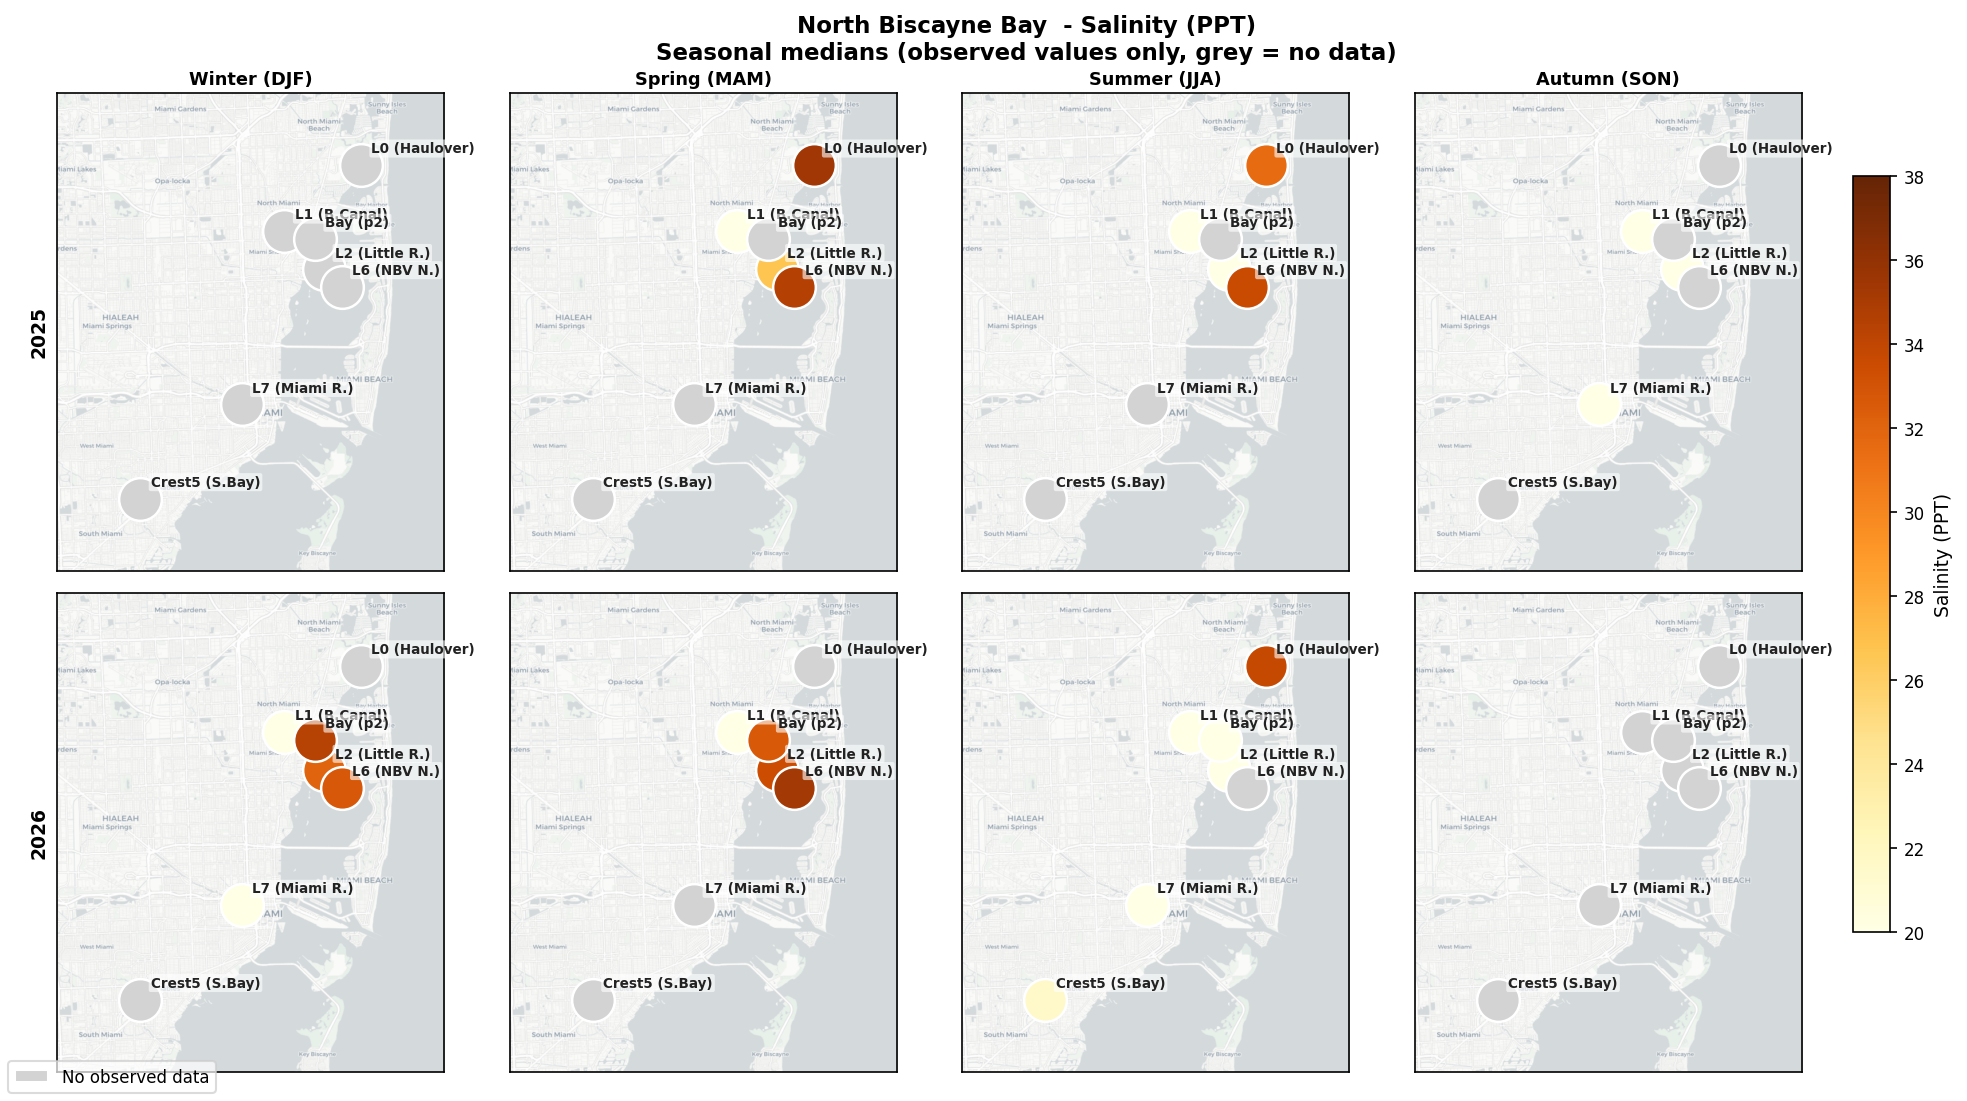
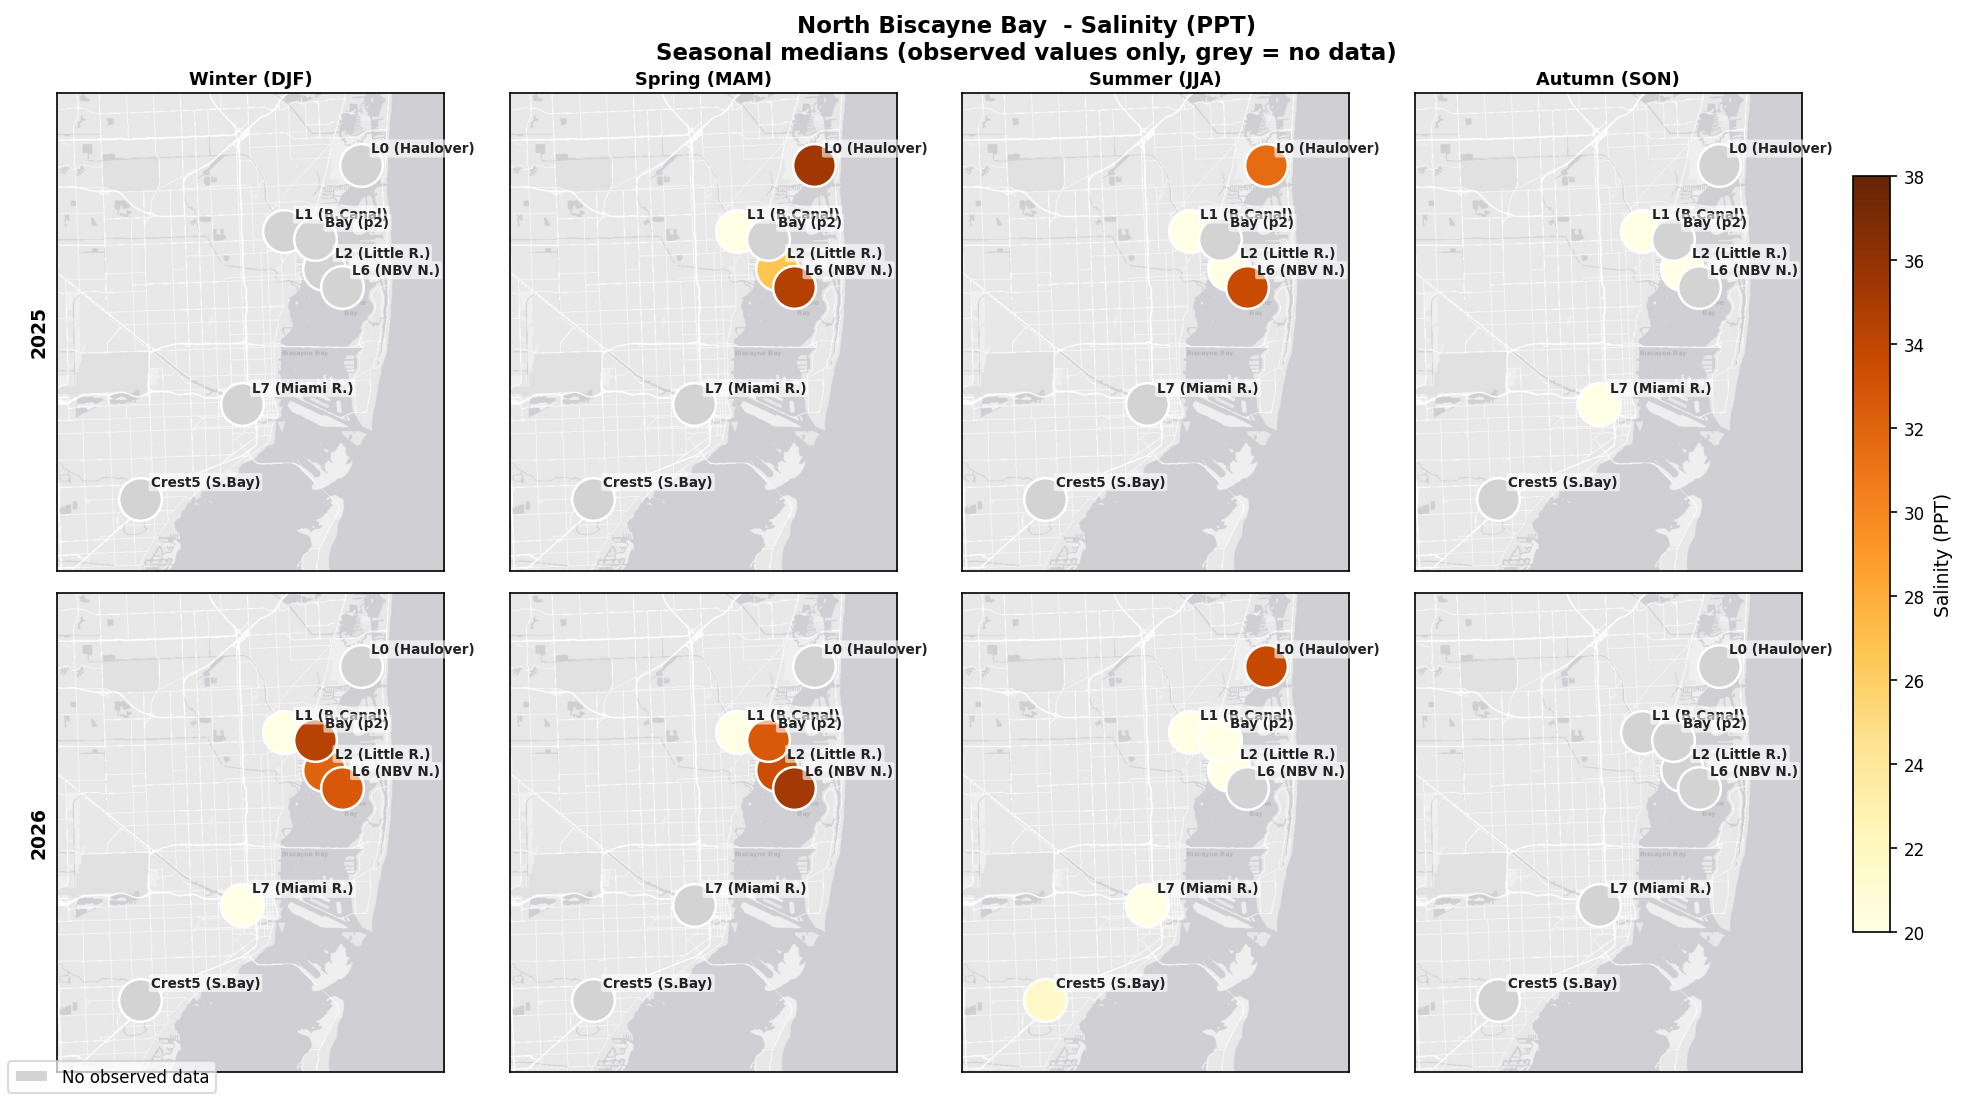
bug fixes and updates to visuals

Changed region(s): [[0.7443, 0.1544, 0.7753, 0.1853], [0.2791, 0.1544, 0.3101, 0.1853], [0.031, 0.5867, 0.062, 0.6176]]

diff --git a/train.py b/train.py
@@ -33,7 +33,7 @@ import torch.nn as nn
 from pathlib import Path
 from torch.utils.data import Dataset, DataLoader
 
-from preprocess import build_dataset
+from preprocess import build_dataset, clip_to_physical_bounds
 from model import BayImputationGNN, Normaliser
 
 
@@ -60,7 +60,7 @@ CKPT_DIR.mkdir(exist_ok=True)
 
 class WindowDataset(Dataset):
     """
-    Yields (x_win, mask_win, forcing_win, ts_win) windows.
+    Yields (x_win, input_mask_win, target_mask_win, forcing_win, ts_win) windows.
     x_win      : (WIN_LEN, N, F)  normalised
     mask_win   : (WIN_LEN, N, F)  1=present, 0=missing
     forcing_win: (WIN_LEN, 3)     [rain, temp_min, temp_max]
@@ -95,6 +95,7 @@ class WindowDataset(Dataset):
         return (
             torch.tensor(x,                  dtype=torch.float32),
             torch.tensor(msk,                dtype=torch.float32),
+            torch.tensor(self.true_mask[s:e], dtype=torch.float32),
             torch.tensor(self.forcing[s:e],  dtype=torch.float32),
             torch.tensor(self.ts[s:e],       dtype=torch.float64),
         )
@@ -166,14 +167,15 @@ def train():
         model.train()
         train_loss = 0.0
 
-        for x_b, msk_b, forcing_b, ts_b in train_loader:
+        for x_b, msk_b, target_msk_b, forcing_b, ts_b in train_loader:
             x_b       = x_b.to(DEVICE)        # (B, W, N, F)
             msk_b     = msk_b.to(DEVICE)
+            target_msk_b = target_msk_b.to(DEVICE)
             forcing_b = forcing_b.to(DEVICE)  # (B, W, 3)
             ts_b      = ts_b.float().to(DEVICE)
 
             _, pred, _ = model(x_b, msk_b, forcing_b, ei, ew, ts_b)
-            loss = criterion(pred * msk_b, x_b * msk_b)
+            loss = criterion(pred[target_msk_b.bool()], x_b[target_msk_b.bool()])
 
             optimiser.zero_grad()
             loss.backward()
@@ -188,11 +190,12 @@ def train():
         model.eval()
         val_loss = 0.0
         with torch.no_grad():
-            for x_b, msk_b, forcing_b, ts_b in val_loader:
+            for x_b, msk_b, target_msk_b, forcing_b, ts_b in val_loader:
                 x_b = x_b.to(DEVICE); msk_b = msk_b.to(DEVICE)
+                target_msk_b = target_msk_b.to(DEVICE)
                 forcing_b = forcing_b.to(DEVICE); ts_b = ts_b.float().to(DEVICE)
                 _, pred, _ = model(x_b, msk_b, forcing_b, ei, ew, ts_b)
-                val_loss += criterion(pred * msk_b, x_b * msk_b).item()
+                val_loss += criterion(pred[target_msk_b.bool()], x_b[target_msk_b.bool()]).item()
         val_loss /= max(len(val_loader), 1)
 
         flag = ""
@@ -267,6 +270,9 @@ def impute(checkpoint: str):
 
     X_imputed_avg = X_imputed_sum / np.maximum(X_imputed_count[:, None, None], 1)
     X_imputed_denorm = norm.inverse_transform(X_imputed_avg.astype(np.float32))
+    X_imputed_denorm = clip_to_physical_bounds(
+        X_imputed_denorm, data["feature_names"]
+    )
 
     # Build output: use real observations where available, model fill for gaps
     X_out = np.where(true_mask.astype(bool), X_raw, X_imputed_denorm)

diff --git a/data_quality_check.py b/data_quality_check.py
@@ -1,0 +1,77 @@
+"""Audit imputed CSV outputs for physical ranges and observation coverage.
+
+Run:
+    python data_quality_check.py
+
+The audit is intentionally read-only. It reports violations in the files as
+currently written and writes analysis/data_quality_audit.csv.
+"""
+
+from pathlib import Path
+
+import numpy as np
+import pandas as pd
+
+from preprocess import PHYSICAL_BOUNDS
+
+
+IMPUTED_DIR = Path("imputed_output")
+OUTPUT_PATH = Path("analysis/data_quality_audit.csv")
+
+
+def audit_file(path: Path) -> list[dict]:
+    frame = pd.read_csv(path)
+    rows = []
+    for feature, (lower, upper) in PHYSICAL_BOUNDS.items():
+        if feature not in frame.columns:
+            continue
+        values = pd.to_numeric(frame[feature], errors="coerce")
+        finite = values.dropna()
+        observed_col = f"{feature}_observed"
+        observed = frame[observed_col].astype(bool) if observed_col in frame else pd.Series(
+            True, index=frame.index
+        )
+        invalid = values.notna() & ((values < lower) | (values > upper))
+        imputed_invalid = invalid & ~observed
+        rows.append(
+            {
+                "file": path.name,
+                "feature": feature,
+                "lower_bound": lower,
+                "upper_bound": upper,
+                "n_values": int(finite.size),
+                "n_observed": int(observed[values.notna()].sum()),
+                "n_imputed": int((~observed & values.notna()).sum()),
+                "n_invalid": int(invalid.sum()),
+                "n_invalid_imputed": int(imputed_invalid.sum()),
+                "min": float(finite.min()) if not finite.empty else np.nan,
+                "max": float(finite.max()) if not finite.empty else np.nan,
+            }
+        )
+    return rows
+
+
+def main() -> int:
+    paths = sorted(IMPUTED_DIR.glob("*_imputed.csv"))
+    if not paths:
+        raise FileNotFoundError(f"No imputed CSV files found in {IMPUTED_DIR}")
+
+    rows = [row for path in paths for row in audit_file(path)]
+    report = pd.DataFrame(rows)
+    OUTPUT_PATH.parent.mkdir(exist_ok=True)
+    report.to_csv(OUTPUT_PATH, index=False, float_format="%.6g")
+
+    invalid_total = int(report["n_invalid"].sum())
+    invalid_imputed_total = int(report["n_invalid_imputed"].sum())
+    print(f"Audited {len(paths)} files and {len(report)} feature/file pairs")
+    print(f"Invalid values: {invalid_total} total, {invalid_imputed_total} imputed")
+    print(f"Saved: {OUTPUT_PATH}")
+    if invalid_total:
+        print(report.loc[report["n_invalid"] > 0, [
+            "file", "feature", "n_invalid", "n_invalid_imputed", "min", "max"
+        ]].to_string(index=False))
+    return 1 if invalid_imputed_total else 0
+
+
+if __name__ == "__main__":
+    raise SystemExit(main())

diff --git a/fcm_validate.py b/fcm_validate.py
@@ -148,10 +148,10 @@ def one_step_hindcast(
     obs_mask: np.ndarray,
 ) -> tuple[np.ndarray, np.ndarray, np.ndarray]:
     """
-    Predicted[t] = sigmoid(W^T @ filled_A[t])  where A[t] is the
-    observation at t with NaN replaced by column means (so the FCM
-    can still run), but we only EVALUATE the prediction at t+1
-    positions where the data was genuinely observed.
+    Predicted[t] = clip(filled_A[t] @ W, 0, 1), matching the bounded
+    linear Ridge mapping used to learn W. A[t] has NaN replaced by
+    column means so the FCM can still run, but we only EVALUATE the
+    prediction at t+1 positions where the data was genuinely observed.
 
     Returns:
       pred       - (T-1, 16)  FCM one-step predictions
@@ -168,13 +168,10 @@ def one_step_hindcast(
     pred = np.full((T - 1, N_NUTR), np.nan)
     obs  = arr_norm[1:].copy()   # NaN preserved where genuinely missing
 
-    def _sig(x):
-        return 1.0 / (1.0 + np.exp(-np.clip(x, -50, 50)))
-
     for t in range(T - 1):
         A_t = arr_norm[t].copy()
         A_t[np.isnan(A_t)] = col_means[np.isnan(A_t)]   # fill NaN for input
-        A_pred = _sig(W.T @ A_t)
+        A_pred = np.clip(A_t @ W, 0.0, 1.0)
         A_pred[:N_FORCING] = arr_norm[t + 1, :N_FORCING]  # forcing clamped
         pred[t] = A_pred
 
@@ -191,7 +188,7 @@ def compute_metrics(
 ) -> pd.DataFrame:
     """
     Per-concept R², RMSE, MAE using only genuinely observed evaluation pairs.
-    R² is clipped to [-2, 1] so a few bad predictions don't blow up the table.
+    R² is stored without clipping so poor predictive skill remains visible.
     """
     rows = []
     for i in ENDO_IDXS:
@@ -210,7 +207,7 @@ def compute_metrics(
         if ss_tot < 1e-10:
             r2 = np.nan
         else:
-            r2 = float(np.clip(1 - ss_res / ss_tot, -2.0, 1.0))
+            r2 = float(1 - ss_res / ss_tot)
         rmse = float(np.sqrt(np.mean((om - pm) ** 2)))
         mae  = float(np.mean(np.abs(om - pm)))
         rows.append({"concept": LABELS[i], "R2": r2,

diff --git a/analyze.py b/analyze.py
@@ -99,11 +99,12 @@ def _compute_loss(model, val_ds, ei, ew, extra_mask_channels=None,
     ew_use = ew_override if ew_override is not None else ew
 
     with torch.no_grad():
-        for x_b, msk_b, forcing_b, ts_b in loader:
+        for x_b, msk_b, target_msk_b, forcing_b, ts_b in loader:
             if count >= MAX_WINDOWS:
                 break
             x_b   = x_b.to(DEVICE)
             msk_b = msk_b.to(DEVICE)
+            target_msk_b = target_msk_b.to(DEVICE)
             if extra_mask_channels:
                 msk_b = msk_b.clone()
                 x_b   = x_b.clone()
@@ -113,7 +114,7 @@ def _compute_loss(model, val_ds, ei, ew, extra_mask_channels=None,
             forcing_b = forcing_b.to(DEVICE)
             ts_b      = ts_b.float().to(DEVICE)
             _, pred, _ = model(x_b, msk_b, forcing_b, ei, ew_use, ts_b)
-            loss = criterion(pred * msk_b, x_b * msk_b)
+            loss = criterion(pred[target_msk_b.bool()], x_b[target_msk_b.bool()])
             total += loss.item()
             count += 1
 
@@ -228,7 +229,7 @@ def attention_heatmap(model, val_ds, ei, ew, node_names):
     loader = DataLoader(val_ds, batch_size=4, shuffle=False, num_workers=0)
 
     with torch.no_grad():
-        for x_b, msk_b, forcing_b, ts_b in loader:
+        for x_b, msk_b, target_msk_b, forcing_b, ts_b in loader:
             if count >= 50:
                 break
             x_b       = x_b.to(DEVICE)

diff --git a/preprocess.py b/preprocess.py
@@ -69,6 +69,32 @@ ALL_FEATURES = [
     "pressure_psia", "odo_pct", "spec_cond_uScm", "turbidity_fnu",
 ]
 
+# Conservative export-time bounds for model-generated values. These are not
+# used to alter observations; they prevent extrapolated decoder outputs from
+# contaminating downstream analyses with physically impossible values.
+PHYSICAL_BOUNDS = {
+    "temp_c": (-5.0, 45.0),
+    "sal_ppt": (0.0, 45.0),
+    "odo_mgL": (0.0, 20.0),
+    "depth_m": (0.0, 100.0),
+    "pressure_psia": (0.0, 200.0),
+    "odo_pct": (0.0, 200.0),
+    "spec_cond_uScm": (0.0, 100000.0),
+    "turbidity_fnu": (0.0, 10000.0),
+}
+
+
+def clip_to_physical_bounds(values: np.ndarray, feature_names: list[str]) -> np.ndarray:
+    """Clip model-generated values to conservative physical bounds."""
+    clipped = np.asarray(values).copy()
+    for feature_idx, feature in enumerate(feature_names):
+        bounds = PHYSICAL_BOUNDS.get(feature)
+        if bounds is not None:
+            clipped[..., feature_idx] = np.clip(
+                clipped[..., feature_idx], bounds[0], bounds[1]
+            )
+    return clipped
+
 SAME_LOCATION_KM = 0.10
 
 # ---------------------------------------------------------------------------

diff --git a/fcm.py b/fcm.py
@@ -431,6 +431,11 @@ def _sigmoid(x: np.ndarray) -> np.ndarray:
     return 1.0 / (1.0 + np.exp(-np.clip(x, -50, 50)))
 
 
+def spectral_radius(W: np.ndarray) -> float:
+    """Return the largest absolute eigenvalue of the FCM weight matrix."""
+    return float(np.max(np.abs(np.linalg.eigvals(W))))
+
+
 def fcm_simulate(
     W:               np.ndarray,
     A0:              np.ndarray,
@@ -846,6 +851,7 @@ def main() -> None:
     delta_p = np.abs(traj_p[-1] - traj_p[-2]).max()
     print(f"\nConvergence: max |ΔA| at step 60 = {delta_p:.6f}",
           "✓" if delta_p < 0.001 else "(increase n_steps)")
+    print(f"Spectral radius: {spectral_radius(W_phys):.4f}")
 
     print("\n[Physical FCM] Generating visualisations...")
     plot_heatmap(W_phys, PHYS_CONCEPTS, N_FORCING,
@@ -891,6 +897,7 @@ def main() -> None:
     delta_n = np.abs(traj_n[-1] - traj_n[-2]).max()
     print(f"\nConvergence: max |ΔA| at step 60 = {delta_n:.6f}",
           "✓" if delta_n < 0.001 else "(increase n_steps)")
+    print(f"Spectral radius: {spectral_radius(W_nutr):.4f}")
 
     print("\n[Nutrient FCM] Generating visualisations...")
     plot_heatmap(W_nutr, NUTR_CONCEPTS, N_FORCING,

diff --git a/canal_stress_map_v2.py b/canal_stress_map_v2.py
@@ -132,12 +132,7 @@ x1, y1 = merc(max(all_lons) + 0.055, max(all_lats) + 0.035)
 
 def add_basemap(ax):
     ax.set_xlim(x0, x1); ax.set_ylim(y0, y1)
-    try:
-        ctx.add_basemap(ax, crs="EPSG:3857",
-                        source=ctx.providers.CartoDB.Positron,
-                        zoom=12, attribution=False)
-    except Exception:
-        ax.set_facecolor("#d4e9f7")
+    ctx.add_basemap(ax, crs="EPSG:3857", source=ctx.providers.Esri.WorldGrayCanvas, zoom=12, attribution=False)
     ax.set_xticks([]); ax.set_yticks([])
 
 JFK_LAT = 25.853
@@ -298,6 +293,12 @@ fig.suptitle(
     "Northern bay (above JFK Causeway) covered by sensors 2025-2026 only; "
     "no grab-sample data available for 2021-2024 in that zone",
     fontsize=12, fontweight="bold",
+)
+fig.text(
+    0.02, 0.01,
+    "Sources: Miami-Dade County DERM grab samples (bay and canal sites, 2021-2024); "
+    "FIU continuous sensor network (2025-2026).",
+    fontsize=6.5, color="#444",
 )
 
 out = OUT_DIR / "canal_stress_map_v2.png"

diff --git a/_fix_basemap.py b/_fix_basemap.py
@@ -1,0 +1,20 @@
+import pathlib, re
+
+files = [
+    'map_viz.py', 'map_viz_extended.py', 'canal_stress_map.py',
+    'canal_stress_map_v2.py', 'dieoff_analysis.py', 'paper_figure.py',
+]
+NEW_CALL = 'ctx.add_basemap(ax, crs="EPSG:3857", source=ctx.providers.Esri.WorldGrayCanvas, zoom=12, attribution=False)'
+
+for fn in files:
+    p = pathlib.Path(fn)
+    txt = p.read_text(encoding='utf-8')
+    new = txt.replace('ax.set_facecolor("#d4e9f7")', NEW_CALL)
+    new = new.replace("ax.set_facecolor('#d4e9f7')", NEW_CALL)
+    new = new.replace('ax.set_facecolor("#e8f4f8")', NEW_CALL)
+    new = new.replace("ax.set_facecolor('#e8f4f8')", NEW_CALL)
+    if new != txt:
+        p.write_text(new, encoding='utf-8')
+        print(fn, '- updated')
+    else:
+        print(fn, '- no change (check manually)')

diff --git a/dieoff_analysis.py b/dieoff_analysis.py
@@ -361,12 +361,7 @@ def plot_spatial_maps_basemap(df: pd.DataFrame) -> None:
         for col, (var, vlab, cmap, log, (vmin, vmax)) in enumerate(plot_vars):
             ax = axes[row, col]
             ax.set_xlim(x0, x1); ax.set_ylim(y0, y1)
-            try:
-                ctx.add_basemap(ax, crs="EPSG:3857",
-                                source=ctx.providers.CartoDB.Positron,
-                                zoom=12, attribution=False)
-            except Exception:
-                ax.set_facecolor("#d4e9f7")
+            ctx.add_basemap(ax, crs="EPSG:3857", source=ctx.providers.Esri.WorldGrayCanvas, zoom=12, attribution=False)
             ax.set_xticks([]); ax.set_yticks([])
 
             # JFK Causeway reference line

diff --git a/canal_stress_map.py b/canal_stress_map.py
@@ -111,12 +111,7 @@ BOUNDS = (x0, y0, x1, y1)
 
 def add_basemap(ax):
     ax.set_xlim(x0, x1); ax.set_ylim(y0, y1)
-    try:
-        ctx.add_basemap(ax, crs="EPSG:3857",
-                        source=ctx.providers.CartoDB.Positron,
-                        zoom=12, attribution=False)
-    except Exception:
-        ax.set_facecolor("#d4e9f7")
+    ctx.add_basemap(ax, crs="EPSG:3857", source=ctx.providers.Esri.WorldGrayCanvas, zoom=12, attribution=False)
     ax.set_xticks([]); ax.set_yticks([])
 
 # ── Drawing helpers ───────────────────────────────────────────────────────

diff --git a/paper_figure.py b/paper_figure.py
@@ -156,12 +156,7 @@ def paper_seasonal_maps(grab_clim, sensor_clim):
         for ri, ss in enumerate(KEY_SEASONS):
             ax = axes[ri, ci]
             ax.set_xlim(x0, x1); ax.set_ylim(y0, y1)
-            try:
-                ctx.add_basemap(ax, crs="EPSG:3857",
-                                source=ctx.providers.CartoDB.Positron,
-                                zoom=12, attribution=False)
-            except Exception:
-                ax.set_facecolor("#e8f4f8")
+            ctx.add_basemap(ax, crs="EPSG:3857", source=ctx.providers.Esri.WorldGrayCanvas, zoom=12, attribution=False)
             ax.set_xticks([]); ax.set_yticks([])
 
             # Grab bubbles

diff --git a/map_viz_extended.py b/map_viz_extended.py
@@ -180,11 +180,7 @@ def _bounds(extra_lons=None, extra_lats=None, pad_lon=0.06, pad_lat=0.05):
 def _add_basemap(ax, bounds):
     x0, y0, x1, y1 = bounds
     ax.set_xlim(x0, x1); ax.set_ylim(y0, y1)
-    try:
-        ctx.add_basemap(ax, crs="EPSG:3857", source=ctx.providers.CartoDB.Positron,
-                        zoom=11, attribution=False)
-    except Exception:
-        ax.set_facecolor("#d4e9f7")
+    ctx.add_basemap(ax, crs="EPSG:3857", source=ctx.providers.Esri.WorldGrayCanvas, zoom=12, attribution=False)
 
 
 def _plot_bubbles(ax, rows: pd.DataFrame, cfg: dict,
